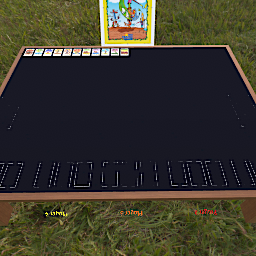
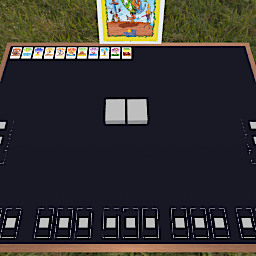
WIP Panel and Scripting setup

diff --git a/src/models/player.ts b/src/models/player.ts
@@ -1,16 +1,36 @@
 import { BaseModel, BaseModelState } from "./baseModel";
-import { log, GLOBAL, GUID_LIST } from "../utils/constants";
+import {
+  log,
+  GUID_LIST,
+  Positions,
+  positions,
+  AvailableColors,
+} from "../utils";
+import { Panel, PanelState } from "./panel";
+import { ScriptingZone, ScriptingZoneState } from "./scriptingZone";
 
-export interface PlayerState extends BaseModelState {}
+export interface PlayerState extends BaseModelState {
+  handGUID: string;
+  panels: { [key: string]: PanelState };
+  scriptingZones: { [key: string]: ScriptingZoneState };
+}
 
 export class Player extends BaseModel {
   handGUID: string = "";
 
-  constructor(color: keyof typeof GUID_LIST.players) {
+  panels: { [key: string]: Panel } = {};
+  scriptingZones: { [key: string]: ScriptingZone } = {};
+
+  constructor(color: AvailableColors) {
     super(color);
 
     this.handGUID = GUID_LIST.players[color].hand;
     log(color + " player hand GUID: " + this.handGUID);
+
+    positions.forEach((position) => {
+      this.panels[position] = new Panel(color, position);
+      // this.scriptingZones[position] = new ScriptingZone(color, position);
+    });
   }
 
   onSave(): PlayerState {
@@ -18,6 +38,9 @@ export class Player extends BaseModel {
       color: this.color,
       guid: this.guid,
       state: this.state,
+      handGUID: this.handGUID,
+      panels: this.panels,
+      scriptingZones: this.scriptingZones,
     };
   }
 
@@ -25,5 +48,19 @@ export class Player extends BaseModel {
     this.color = playerState.color;
     this.guid = playerState.guid;
     this.state = playerState.state;
+
+    Object.entries(playerState.panels).forEach(([position, panelState]) => {
+      this.panels[position] = new Panel(this.color, position);
+      this.panels[position].onLoad(panelState as PanelState);
+    });
+
+    Object.entries(playerState.scriptingZones).forEach(
+      ([position, scriptingZoneState]) => {
+        this.scriptingZones[position] = new ScriptingZone(this.color, position);
+        this.scriptingZones[position].onLoad(
+          scriptingZoneState as ScriptingZoneState
+        );
+      }
+    );
   }
 }

diff --git a/src/models/scriptingZone.ts b/src/models/scriptingZone.ts
@@ -1,0 +1,43 @@
+import { BaseModel, BaseModelState } from "./baseModel";
+import {
+  log,
+  GUID_LIST,
+  capitalize,
+  AvailableColors,
+  Positions,
+} from "../utils";
+
+export interface ScriptingZoneState extends BaseModelState {
+  position: string;
+}
+
+export class ScriptingZone extends BaseModel {
+  position: string;
+  guid: string = "";
+
+  constructor(color: AvailableColors, position: string) {
+    super(color);
+
+    this.position = position;
+    const scriptKey =
+      `script${capitalize(position)}` as keyof (typeof GUID_LIST.players)[keyof typeof GUID_LIST.players];
+    this.guid = GUID_LIST.players[color][scriptKey];
+    log(color + " scripting zone GUID: " + this.guid);
+  }
+
+  onSave(): ScriptingZoneState {
+    return {
+      color: this.color,
+      guid: this.guid,
+      state: this.state,
+      position: this.position,
+    };
+  }
+
+  onLoad(scriptingZoneState: ScriptingZoneState) {
+    this.color = scriptingZoneState.color;
+    this.guid = scriptingZoneState.guid;
+    this.state = scriptingZoneState.state;
+    this.position = scriptingZoneState.position;
+  }
+}

diff --git a/src/models/panel.ts b/src/models/panel.ts
@@ -1,0 +1,47 @@
+import { BaseModel, BaseModelState } from "./baseModel";
+import {
+  log,
+  GUID_LIST,
+  capitalize,
+  AvailableColors,
+  Positions,
+} from "../utils";
+
+export interface PanelState extends BaseModelState {
+  position: string;
+}
+
+export class Panel extends BaseModel {
+  position: string;
+  guid: string = "";
+
+  constructor(color: AvailableColors, position: string) {
+    super(color);
+
+    this.position = position;
+    log("Position: " + position);
+    log(JSON.stringify(GUID_LIST.players[color]));
+    this.guid =
+      GUID_LIST.players[color][
+        `panel${capitalize(position)}` as keyof (typeof GUID_LIST.players)[keyof typeof GUID_LIST.players]
+      ];
+
+    log(color + " panel GUID: " + this.guid);
+  }
+
+  onSave(): PanelState {
+    return {
+      color: this.color,
+      guid: this.guid,
+      state: this.state,
+      position: this.position,
+    };
+  }
+
+  onLoad(panelState: PanelState) {
+    this.color = panelState.color;
+    this.guid = panelState.guid;
+    this.state = panelState.state;
+    this.position = panelState.position;
+  }
+}

diff --git a/src/Global.-1.ts b/src/Global.-1.ts
@@ -2,7 +2,6 @@ import { GLOBAL, GlobalState } from "./utils/constants";
 import { PlayerWorker } from "./workers/playerWorker";
 
 let state: GlobalState;
-const playerWorker = new PlayerWorker();
 
 GLOBAL.onLoad = (script_state: string) => {
   if (script_state === "") {
@@ -13,7 +12,12 @@ GLOBAL.onLoad = (script_state: string) => {
     log("Loading state.");
     state = JSON.decode(script_state);
 
+    if (state.init) {
+      state = initState();
+    }
+
     if (state.playerWorkerState) {
+      const playerWorker = new PlayerWorker();
       playerWorker.onLoad(state.playerWorkerState);
     }
   }
@@ -28,6 +32,8 @@ GLOBAL.onSave = () => {
 };
 
 const stateSnapshot = (): GlobalState => {
+  const playerWorker = new PlayerWorker();
+
   state = {
     ...state,
     playerWorkerState: playerWorker.onSave(),
@@ -37,6 +43,9 @@ const stateSnapshot = (): GlobalState => {
 };
 
 const initState = (): GlobalState => {
+  const playerWorker = new PlayerWorker();
+  playerWorker.initSeatedPlayers();
+
   return {
     init: true,
   };

diff --git a/src/workers/playerWorker.ts b/src/workers/playerWorker.ts
@@ -1,4 +1,4 @@
-import { GLOBAL, log, AvailableColors } from "../utils/constants";
+import { GLOBAL, log, AvailableColors } from "../utils";
 import { Player } from "../models/player";
 
 export interface PlayerWorkerState {
@@ -11,13 +11,12 @@ export class PlayerWorker {
   initSeatedPlayers() {
     log("Iniializing seated players.");
 
-    this.seatedPlayers = GLOBAL.getSeatedPlayers().forEach(
-      (playerColor: string) => {
-        this.seatedPlayers[playerColor] = new Player(
-          playerColor as AvailableColors
-        );
-      }
-    );
+    Object.values(GLOBAL.getSeatedPlayers()).forEach((playerColor) => {
+      log("Player color: " + playerColor);
+      this.seatedPlayers[playerColor as AvailableColors] = new Player(
+        playerColor as AvailableColors
+      );
+    });
 
     log("Seated players: " + this.seatedPlayers.length);
 

diff --git a/src/models/baseModel.ts b/src/models/baseModel.ts
@@ -1,17 +1,17 @@
-import { log } from "../utils/constants";
+import { AvailableColors, log } from "../utils";
 
 export interface BaseModelState {
   guid: string;
-  color: string;
+  color: AvailableColors;
   state: { [key: string]: string | number | boolean };
 }
 
 export class BaseModel {
   guid!: string;
-  color: string;
+  color: AvailableColors;
   state: { [key: string]: string | number | boolean };
 
-  constructor(color: string) {
+  constructor(color: AvailableColors) {
     this.color = color;
     this.state = {};
   }

diff --git a/src/utils/constants.ts b/src/utils/constants.ts
@@ -9,10 +9,6 @@ export interface GlobalState {
 
 export { GUID_LIST } from "./guidList";
 
-export const log = (message: string) => {
-  GLOBAL.log(message);
-};
-
 export enum AvailableColors {
   "White" = "White",
   "Red" = "Red",
@@ -22,3 +18,7 @@ export enum AvailableColors {
   "Blue" = "Blue",
   "Purple" = "Purple",
 }
+
+export type Positions = "left" | "middle" | "right";
+
+export const positions: Positions[] = ["left", "middle", "right"];

diff --git a/src/utils/functions.ts b/src/utils/functions.ts
@@ -1,0 +1,9 @@
+import { GLOBAL } from "./constants";
+
+export function capitalize(val: string) {
+  return String(val).charAt(0).toUpperCase() + String(val).slice(1);
+}
+
+export const log = (message: string) => {
+  GLOBAL.log(message);
+};

diff --git a/src/utils/index.ts b/src/utils/index.ts
@@ -1,0 +1,3 @@
+export * from "./constants";
+export * from "./functions";
+export * from "./guidList";
